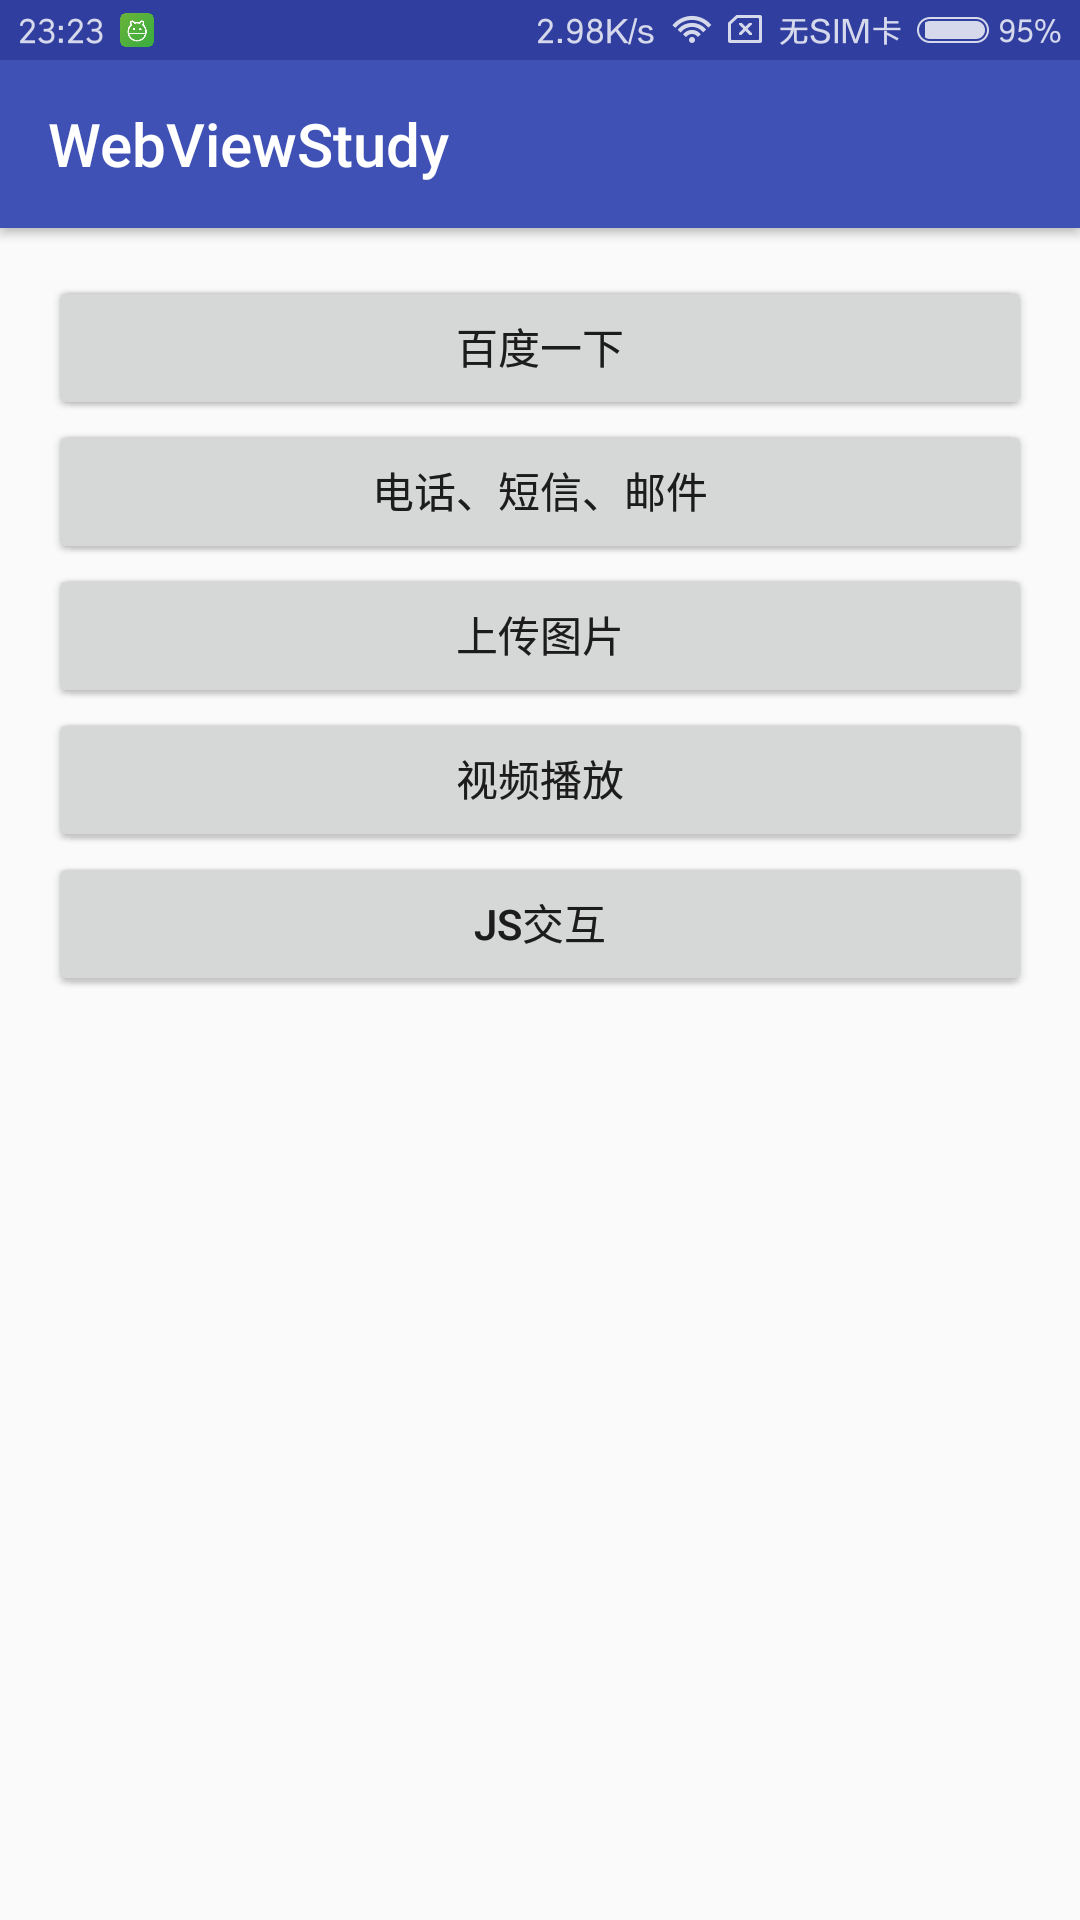
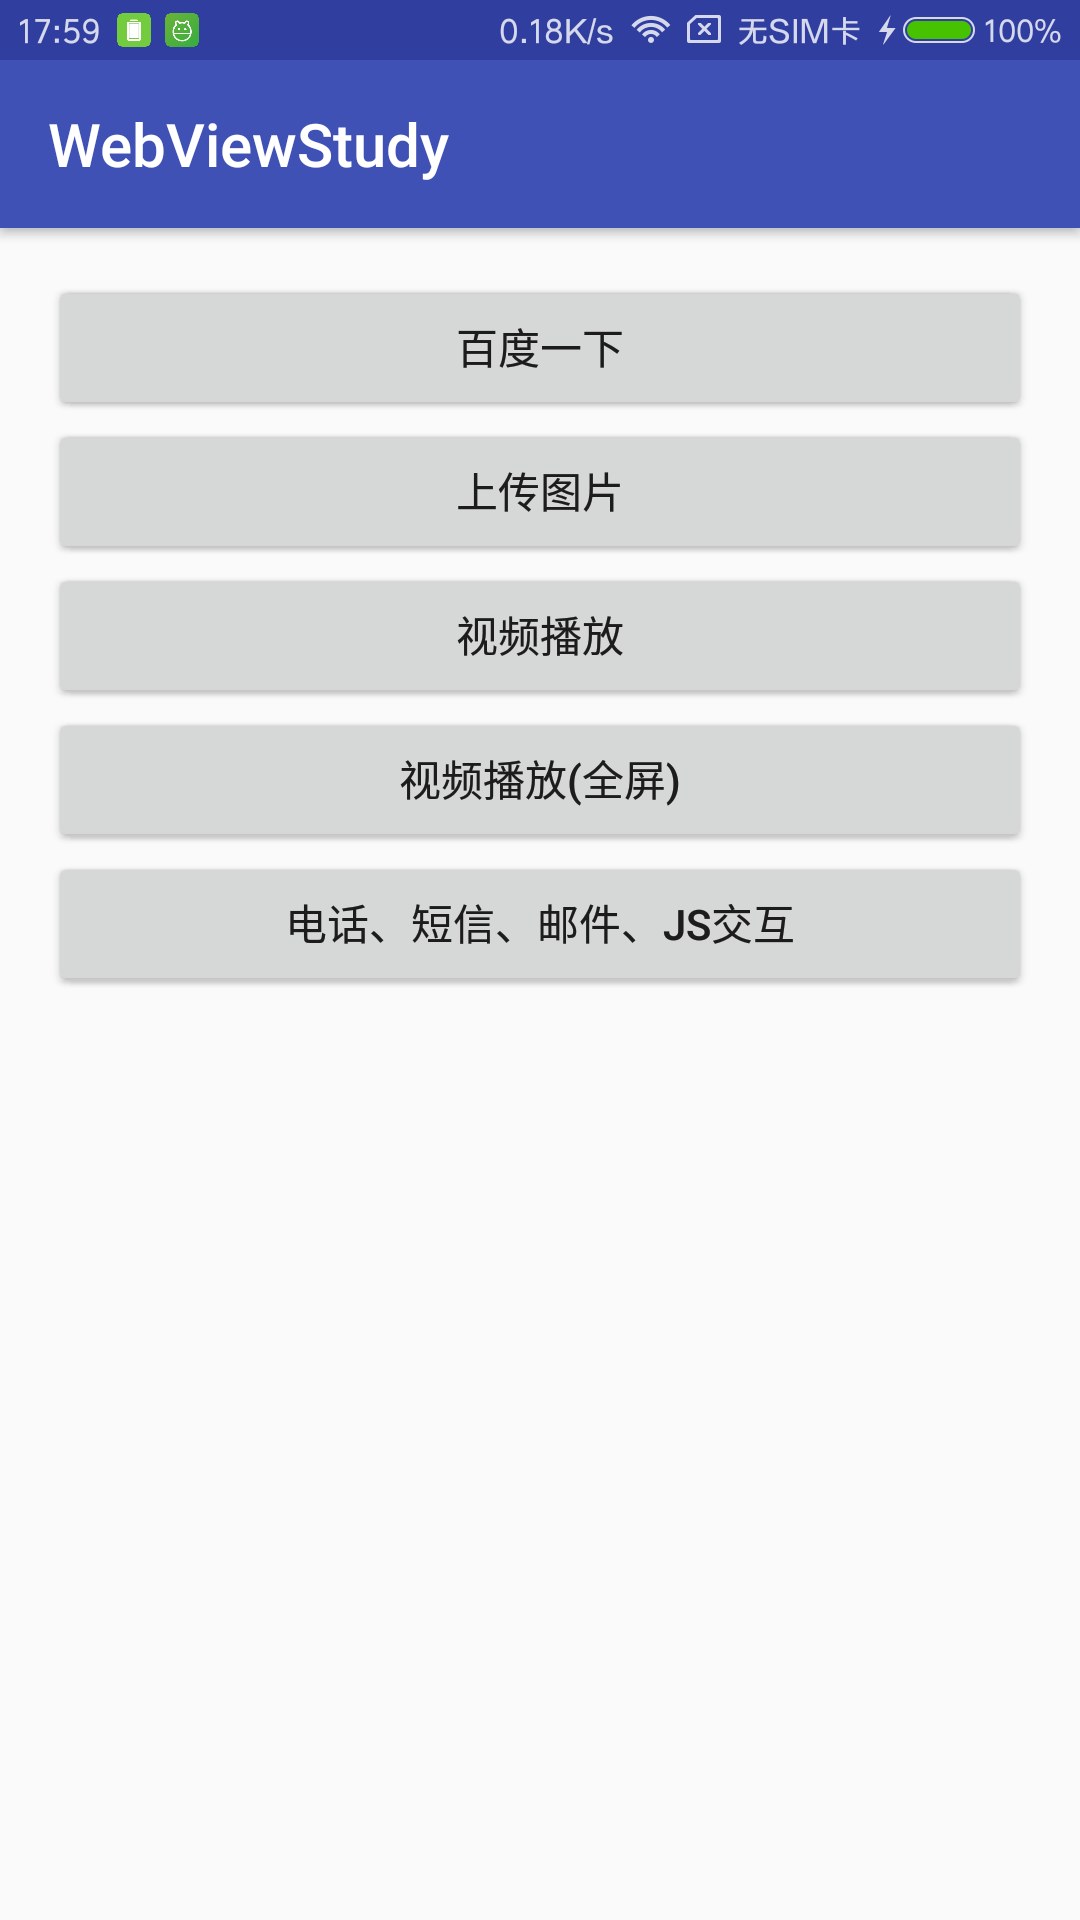
Update readme.md

diff --git a/README.md b/README.md
@@ -3,14 +3,13 @@
 
 ##Contains the content
 
- - 使用MVP模式重构中...
  - 拨打电话、发送短信、发送邮件
  - 上传图片(版本兼容)
  - 进度条设置
- - 字体大小设置（完善中...）
+ - 字体大小设置
  - 返回网页上一层、显示网页标题
- - 播放网络视频
- - **与JS交互**（优化中..）
+ - 全屏播放网络视频
+ - **与JS交互**
 
  
  <img width="260" height=“374” src="https://github.com/youlookwhat/WebViewStudy/blob/master/art/view_00.png"></img>
@@ -25,6 +24,7 @@
  
 ##所遇问题
  - [WebView加载网页不显示图片解决办法](http://blog.csdn.net/u013320868/article/details/52837671)
+ - [webview: 视频全屏播放按返回页面被放大的问题](http://blog.csdn.net/guozhiganggang/article/details/52097975)
  - [Failed to init browser shader disk cache.](https://chromium.googlesource.com/chromium/src/+/dc26192a317d9511ce983fd4b26b1130fe25761a)
  - [EGL_BAD_DISPLAY](http://forum.xda-developers.com/showthread.php?t=2212632)
  - [Unknown frame routing id: 3](https://chromium.googlesource.com/chromium/src.git/+/46.0.2478.0/content/browser/android/java/gin_java_bridge_message_filter.cc)
